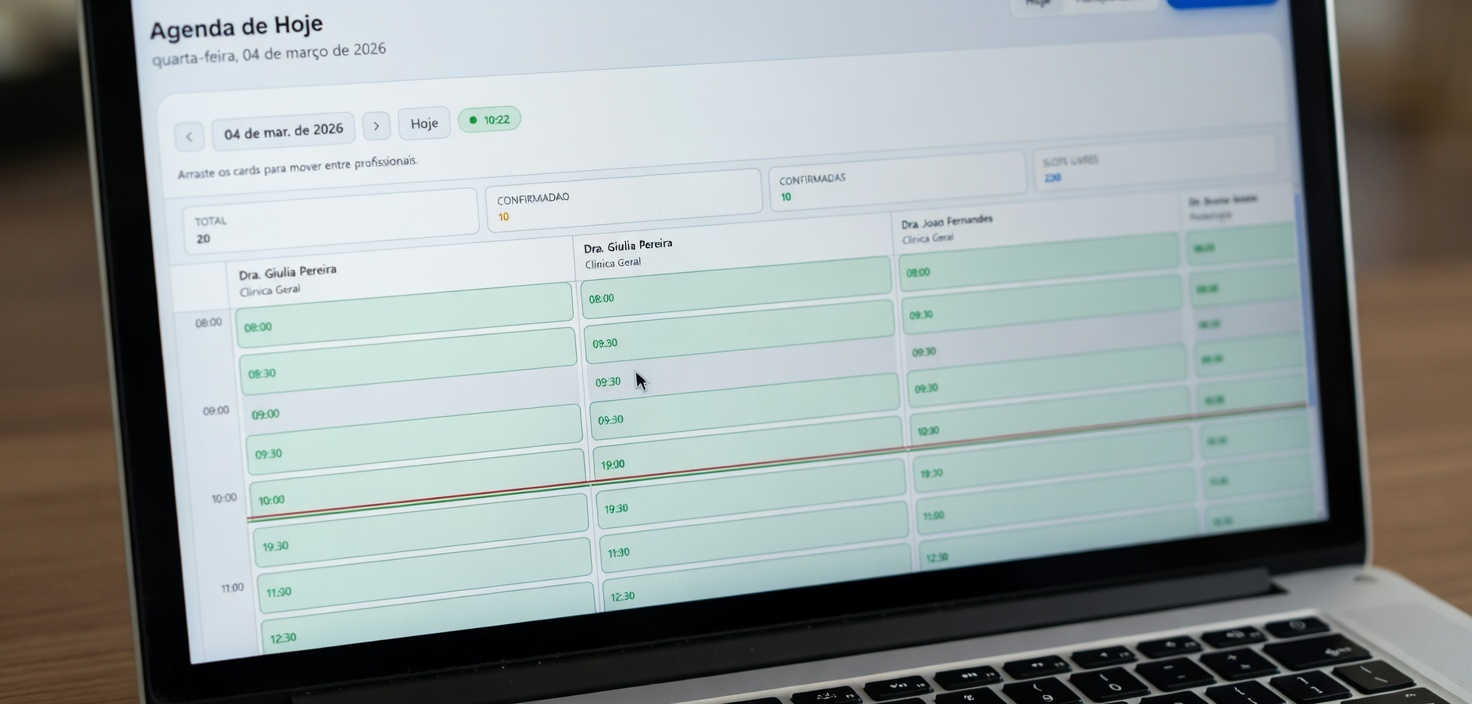
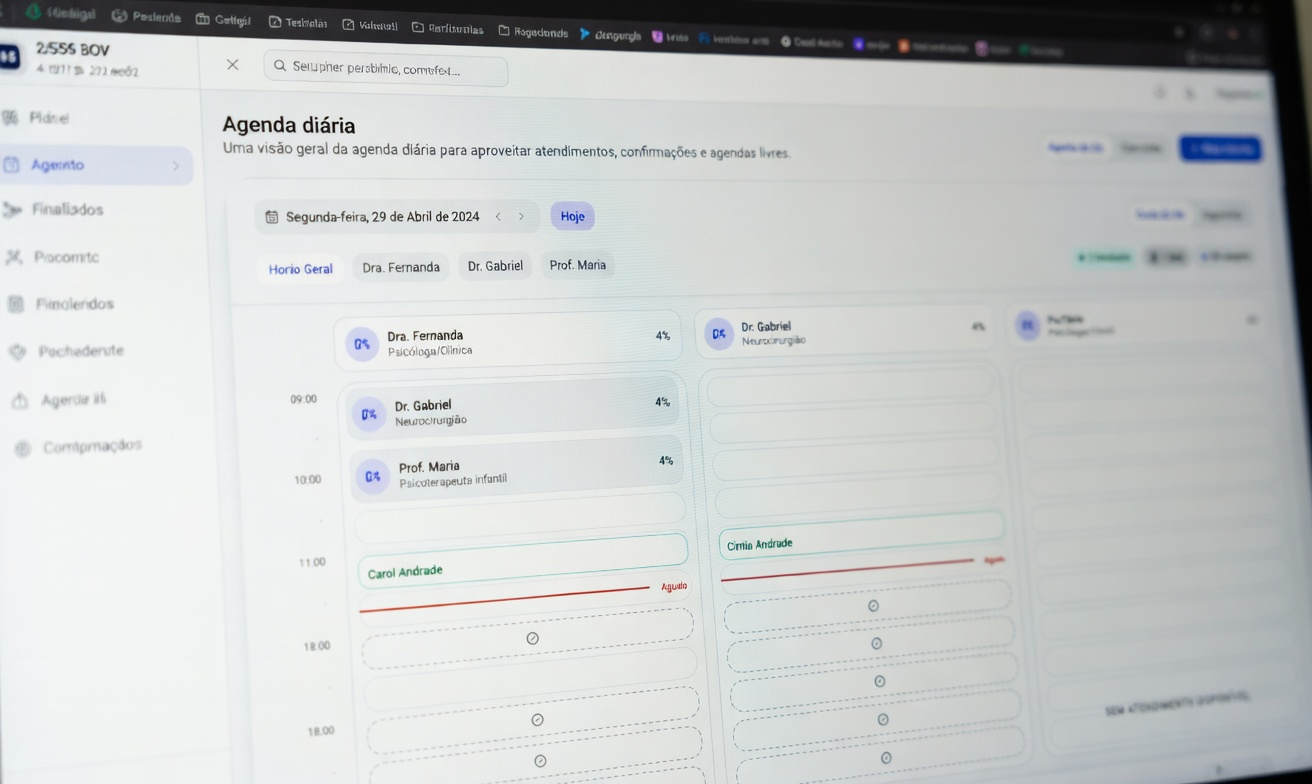
imp

diff --git a/src/App.tsx b/src/App.tsx
@@ -3,7 +3,7 @@
  * SPDX-License-Identifier: Apache-2.0
  */
 
-import React, { useEffect, useRef, useState } from 'react';
+import React, { useEffect, useState } from 'react';
 import {
   Bot,
   Calendar,
@@ -12,13 +12,12 @@ import {
   HeartPulse,
   LayoutDashboard,
   MessageCircle,
-  Play,
   ShieldCheck,
   Users
 } from 'lucide-react';
 import { motion } from 'motion/react';
 import clinicTeamImage from './assets/images/clinic-team.png';
-import dashboardGeralImage from './assets/images/dash-geral.png';
+import dashMainImage from './assets/images/dash-main.jpg';
 import agendaImage from './assets/images/agenda.jpg';
 import pacientesImage from './assets/images/pacientes.jpg';
 import prontuarioImage from './assets/images/prontuario.jpg';
@@ -34,7 +33,6 @@ declare global {
   }
 }
 
-const HERO_YOUTUBE_VIDEO_ID = '1K2zYpofJUk';
 const PRICING_PATH = '/planos';
 const WHATSAPP_PHONE = '5579996018591';
 const WHATSAPP_MESSAGE = 'Oi! Quero solicitar uma demonstração do Medainer.';
@@ -224,25 +222,6 @@ function scrollToHash(hash: string) {
   window.scrollTo({ top: Math.max(0, targetTop), behavior: 'auto' });
 }
 
-function getHeroYoutubeEmbedUrl() {
-  const url = new URL(`https://www.youtube-nocookie.com/embed/${HERO_YOUTUBE_VIDEO_ID}`);
-  url.searchParams.set('autoplay', '1');
-  url.searchParams.set('controls', '0');
-  url.searchParams.set('disablekb', '1');
-  url.searchParams.set('enablejsapi', '1');
-  url.searchParams.set('fs', '0');
-  url.searchParams.set('iv_load_policy', '3');
-  url.searchParams.set('modestbranding', '1');
-  url.searchParams.set('playsinline', '1');
-  url.searchParams.set('rel', '0');
-
-  if (typeof window !== 'undefined') {
-    url.searchParams.set('origin', window.location.origin);
-  }
-
-  return url.toString();
-}
-
 function trackEvent(eventName: string, payload: Record<string, unknown> = {}) {
   if (typeof window === 'undefined' || typeof window.gtag !== 'function') return;
 
@@ -307,12 +286,8 @@ const SectionHeading = ({
 export default function App() {
   const [isScrolled, setIsScrolled] = useState(false);
   const [{ pathname, hash }, setLocationState] = useState(getCurrentLocationState);
-  const [isHeroVideoPlaying, setIsHeroVideoPlaying] = useState(false);
-  const [isHeroVideoPaused, setIsHeroVideoPaused] = useState(false);
-  const heroVideoRef = useRef<HTMLIFrameElement | null>(null);
   const demoWhatsappUrl = buildTrackedUrl(WHATSAPP_URL);
   const isPricingPage = pathname === PRICING_PATH;
-  const heroYoutubeEmbedUrl = getHeroYoutubeEmbedUrl();
 
   useEffect(() => {
     const handleScroll = () => setIsScrolled(window.scrollY > 24);
@@ -335,33 +310,6 @@ export default function App() {
     const frameId = window.requestAnimationFrame(() => scrollToHash(hash));
     return () => window.cancelAnimationFrame(frameId);
   }, [hash, isPricingPage, pathname]);
-
-  const sendHeroVideoCommand = (command: 'pauseVideo' | 'playVideo') => {
-    heroVideoRef.current?.contentWindow?.postMessage(
-      JSON.stringify({
-        event: 'command',
-        func: command,
-        args: [],
-      }),
-      '*',
-    );
-  };
-
-  const handleHeroVideoStart = () => {
-    setIsHeroVideoPlaying(true);
-    setIsHeroVideoPaused(false);
-  };
-
-  const handleHeroVideoToggle = () => {
-    if (isHeroVideoPaused) {
-      sendHeroVideoCommand('playVideo');
-      setIsHeroVideoPaused(false);
-      return;
-    }
-
-    sendHeroVideoCommand('pauseVideo');
-    setIsHeroVideoPaused(true);
-  };
 
   return (
     <div className="min-h-screen bg-brand-page font-sans text-brand-ink selection:bg-brand-primary selection:text-white">
@@ -462,7 +410,7 @@ export default function App() {
                 Gestão para clínicas e consultórios de saúde
               </div> */}
               
-              <h1 className="mt-6 text-4xl font-serif font-semibold leading-[1.02] text-brand-ink sm:text-5xl lg:text-6xl">
+              <h1 className="text-4xl font-serif font-semibold leading-[1.02] text-brand-ink sm:text-5xl lg:text-6xl">
                 Clínica lotada, organizada e sem depender de você para cada detalhe
               </h1>
               <p className="mt-6 text-base leading-relaxed text-brand-muted sm:text-lg">
@@ -504,9 +452,11 @@ export default function App() {
               transition={{ duration: 0.8, delay: 0.1 }}
               className="relative"
             >
+              {/* Hero antigo com video mantido aqui para referencia futura. */}
+              {/*
               <div className="hero-frame rounded-[24px] border border-brand-line bg-white p-3 shadow-[0_32px_80px_rgba(59,130,246,0.10)] sm:p-4">
                 <div className="mb-3 flex items-center justify-between rounded-[18px] px-4 py-3 text-sm text-brand-muted">
-                  <span>Toque para ver o Medainer</span>
+                  <span>Visão principal do Medainer</span>
                 </div>
                 <div className="overflow-hidden rounded-[18px] border border-brand-line">
                   <div className="aspect-video w-full bg-brand-panel">
@@ -557,6 +507,13 @@ export default function App() {
                   </div>
                 </div>
               </div>
+              */}
+              <img
+                src={dashMainImage}
+                alt="Painel principal do Medainer"
+                className="block h-auto w-full rounded-[24px]"
+                loading="eager"
+              />
             </motion.div>
           </div>
 
